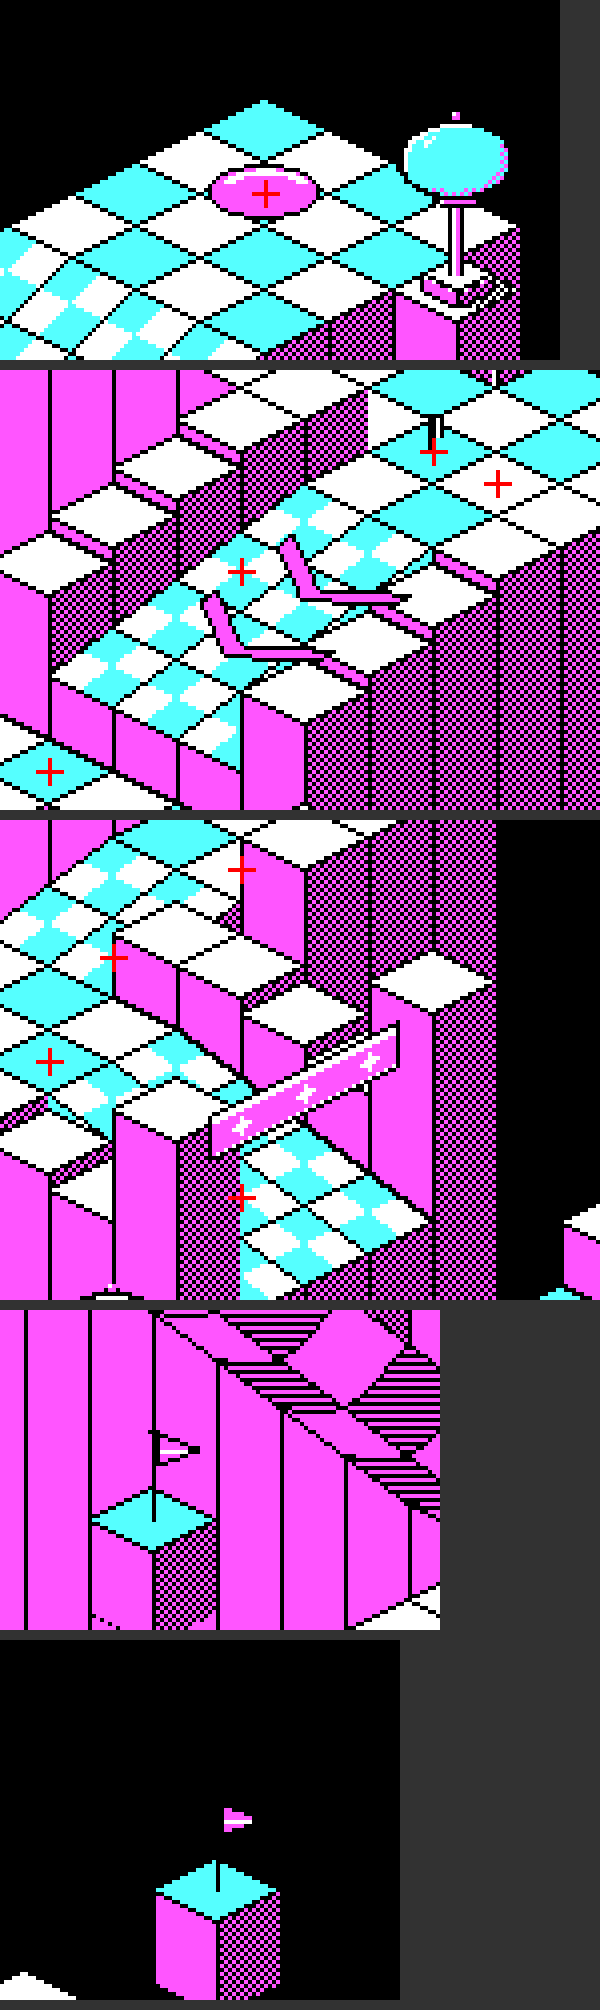
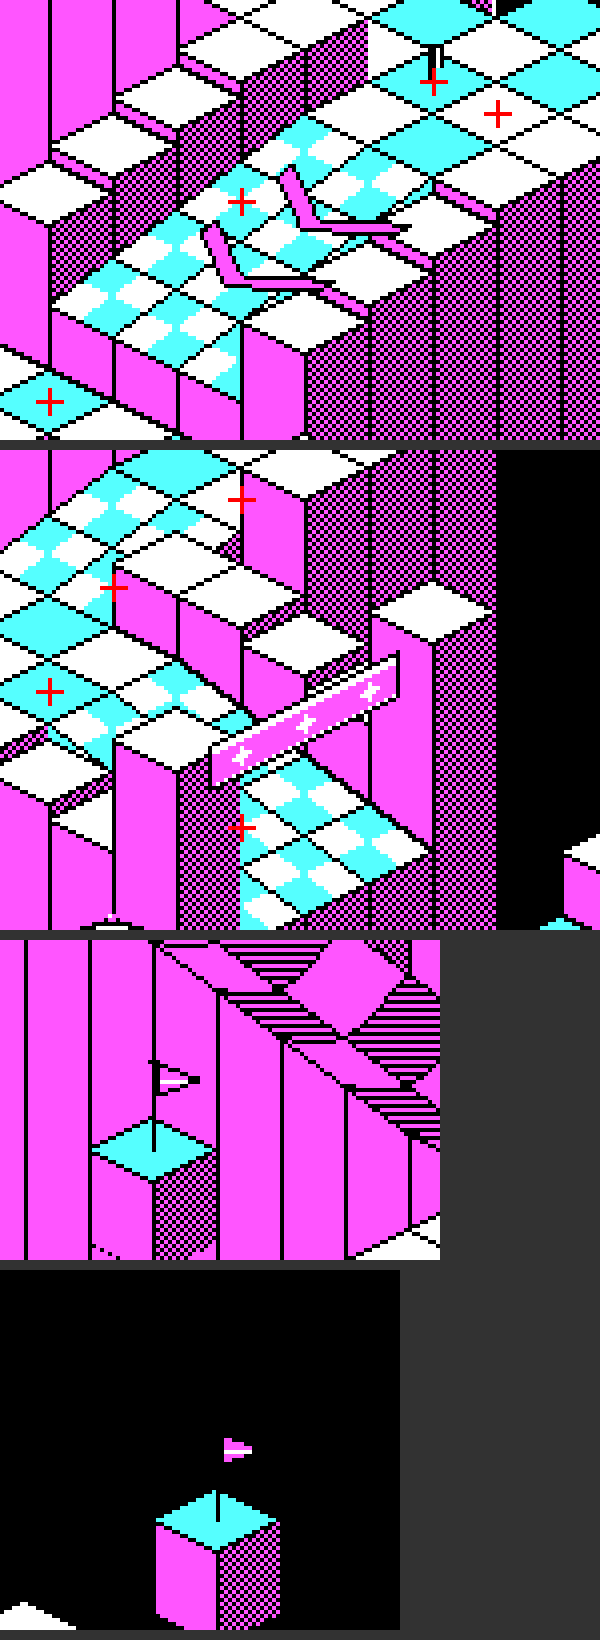
bonanza: FIRST ROLL revision 8 - the owner's start platform (diagonal corners, a 2-wide first ramp)
The owner's edit of the diagonal-tile variant: the start plateau's front
corner on a diagonal and the first ramp's outer columns removed (2 wide),
with the variant's corner cuts on the plateau and the hill's landings
(`hole half <side> tile`). The sketch emits the halves; decals.py re-run.
The model's run unchanged; the part 10,000 bytes on the disk (+537).

Claude-Session: https://claude.ai/code/session_01Wo8a4suEiDfFPFBsnHYKF3

diff --git a/docs/plans/bonanza-courses/first/sketch.py b/docs/plans/bonanza-courses/first/sketch.py
@@ -17,6 +17,10 @@ SECTION = {}
 RAILS = []           # (x0, y0, x1, y1) a guard rail along a tile edge
 WALLS = []           # (x0, y0, x1, y1, z) a solid block
 HOLES = set()
+# revision 8 (the owner's edit of the diagonal variant): half cells made VOID - (wx, wy, side): the start
+# plateau's corners and its front corner on a diagonal, and the hill landings' outer corners
+HALVES = [(4, 4, "up"), (7, 4, "right"), (4, 7, "left"), (7, 7, "down"),
+          (4, 13, "left"), (13, 10, "right"), (10, 19, "left"), (13, 19, "down")]
 NOTES = []           # (wx, wy, z, text)
 
 
@@ -98,7 +102,7 @@ Z = 26                                   # the start's height, units
 # A  the start and the hill of ramps, UNRAILED (revision 5: the owner, "the guard here is that its so
 #    wide"): ramps alternate +y and +x; no rail and no back wall
 floor("A", 4, 4, 8, 8, Z)                                    # P0 the start
-ramp("A", "y", 4, 8, 8, 10, Z, Z - 2)                        # R1
+ramp("A", "y", 5, 8, 7, 10, Z, Z - 2)                        # R1: TWO wide (revision 8: the owner's edit)
 floor("A", 4, 10, 8, 14, Z - 2)                              # L1
 ramp("A", "x", 8, 10, 10, 14, Z - 2, Z - 4)                  # R2
 floor("A", 10, 10, 14, 14, Z - 4)                            # L2
@@ -404,6 +408,8 @@ def bbc(out):
     L.append("")
     for (x, y) in sorted(HOLES):
         L.append("hole  tile %d %d" % (x + OFF, y + OFF))
+    for x, y, side in HALVES:
+        L.append("hole  half %s tile %d %d          # a diagonal corner" % (side, x + OFF, y + OFF))
     L.append("goal  rect %d %d %d %d  flat %g" % (min(g[0] for g in GOAL) + OFF, min(g[1] for g in GOAL) + OFF,
                                                max(g[0] for g in GOAL) + 1 + OFF, max(g[1] for g in GOAL) + 1 + OFF,
                                                CELLS[min(GOAL)][0]))

diff --git a/docs/plans/bonanza-courses/FIRST-ROLL.md b/docs/plans/bonanza-courses/FIRST-ROLL.md
@@ -1,6 +1,6 @@
 # FIRST ROLL: design sheet, attempt 1
 
-*Status: **IN THE ENGINE, playtest 6, revision 7** (art prototypes) (`apps/bonanza/courses/roll.bbc`,
+*Status: **IN THE ENGINE, playtest 6, revision 8** (art prototypes; the owner's start platform) (`apps/bonanza/courses/roll.bbc`,
 built by `make BUILD=build/roll BZROLL=1 bonanzadisk`). While the LAYOUT
 moves, `first/sketch.py --bbc --force` writes `roll.bbc` from the sketch, and
 its header lines travel in the sketch, so nothing hand-made is lost. Once
@@ -15,6 +15,21 @@ then this course is built under a working name of its own in the tool,
 `ROLL`, and it takes FIRST when the prototype goes.
 
 **What each revision changed (the owner, 2026-11-18):**
+- **Revision 8, the owner's edit of the diagonal variant** (*"Add a
+  diagonal to the black marked column, and remove the red marked columns.
+  This starts them on a visually interesting platform, and its not that
+  hard to roll down a 2 wide path."*):
+  - the hill takes the variant's diagonal corners: the start plateau's
+    three outer corners and the landings' outer corners, each a half cell
+    made void (`hole half <side> tile`);
+  - the start plateau's FRONT corner is cut on a diagonal too;
+  - the first ramp is TWO wide (its outer columns removed). The start
+    stands on a raised platform with the tee on it
+    (`first/start-platform.png`);
+  - the marks were mapped to cells by projecting the variant's cells back
+    onto the preview's pixels;
+  - the course part is **10,000 bytes** on the disk (+537 for the
+    diagonals).
 - **Revision 7, art prototypes** (the owner, on the recommendations:
   floating terraces for another course, not this one; a screenshot of
   diagonal tiles; *"5: Oh, I think I like that; but we have to be careful

diff --git a/docs/plans/BOUNCE-BONANZA-DIARY.md b/docs/plans/BOUNCE-BONANZA-DIARY.md
@@ -6043,3 +6043,15 @@ bytes on the disk (9,463).
 
 **Run**: the tool and previews; the model's steered run (37.2 s, no fall,
 no pan); the playtest build. **Not run**: the guest (fork rule 5).
+
+**Revision 8**, the same day. The owner edited the diagonal variant's
+screenshot: *"Add a diagonal to the black marked column, and remove the red
+marked columns. This starts them on a visually interesting platform, and
+its not that hard to roll down a 2 wide path."* Projected back to cells:
+- the black mark is the start plateau's front corner, now cut on a
+  diagonal;
+- the red marks are the first ramp's outer columns, so the ramp is 2 wide.
+
+The variant's other corner cuts came with it, as the edit was drawn on it.
+The model's run is unchanged (37.2 s, no fall, no pan). The part is 10,000
+bytes on the disk.
